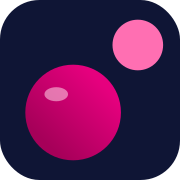
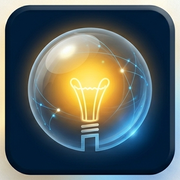
feat: 로고·파비콘 자산을 새 PNG 시안으로 교체
- 새 시안: 다크 네이비 plate + 유리 오브 + 노란 전구 + 청색 네트워크 점선
- 워드마크: insightout (검정 네이비) + 좌측 오브 + 라이트 글로우

자산 교체:
- public/logo.png (light, 976x286, 새 시안)
- public/logo-dark.png (다크 변형 자동 생성)
- public/favicon-{16,32,48,96,180,192,512}.png (마스터 412px 다운샘플)
- public/favicon.ico (16+32+48 멀티해상도)
- public/apple-touch-icon.png (180x180)
- src/app/favicon.ico (Next.js 자동 인식, public 동일)
- src/app/icon.png (192x192, Next.js 자동 인식)
- src/app/apple-icon.png (180x180, Next.js 자동 인식)

기존 SVG 자산 정리 (PNG로 완전 교체):
- public/logo.svg, logo-dark.svg, logo-mark.svg, logo-mark-favicon.svg 삭제
- src/app/icon.svg 삭제

코드 갱신:
- src/app/login/page.tsx: Image src /logo.svg → /logo.png, dims 320x80 → 976x286
- src/components/dashboard/DashboardHeader.tsx: 동일 패턴
- next/image unoptimized prop 제거 (PNG는 next/image 최적화 활용)

DEMO 배지 (PR #8)는 그대로 유지 — 현재 콘텐츠가 mock임을 시연 시 명시

diff --git a/src/app/login/page.tsx b/src/app/login/page.tsx
@@ -139,7 +139,7 @@ export default function LoginPage() {
     <div className="min-h-screen bg-gray-50 flex items-center justify-center p-4">
       <div className="w-full max-w-sm">
         <div className="mb-8 text-center">
-          <Image src="/logo.svg" alt="Insight Out" width={320} height={80} priority unoptimized className="mx-auto mb-3 h-12 w-auto" />
+          <Image src="/logo.png" alt="Insight Out" width={976} height={286} priority className="mx-auto mb-3 h-12 w-auto" />
           <p className="text-sm text-gray-500">계정에 로그인하세요</p>
         </div>
         <Suspense fallback={<div className="bg-white rounded-2xl shadow-sm border border-gray-100 p-8 h-64" />}>

diff --git a/src/components/dashboard/DashboardHeader.tsx b/src/components/dashboard/DashboardHeader.tsx
@@ -52,12 +52,11 @@ export default function DashboardHeader() {
         {/* Logo */}
         <div className="flex w-52 shrink-0 items-center gap-2.5">
           <Image
-            src="/logo.svg"
+            src="/logo.png"
             alt="Insight Out"
-            width={320}
-            height={80}
+            width={976}
+            height={286}
             priority
-            unoptimized
             className="h-8 w-auto"
           />
           <span className="hidden text-xs text-gray-400 sm:block">B2B Intelligence</span>
